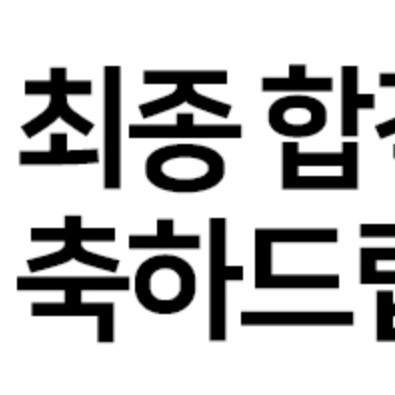
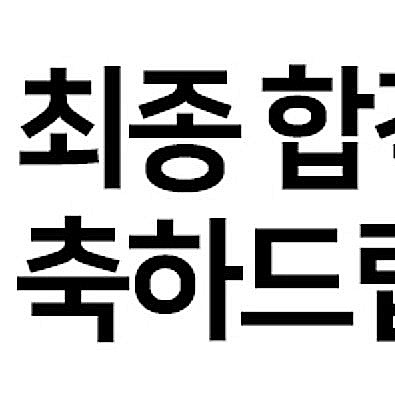
fix: 기존 모든 post의 thumbnail을 좀 더 고화질 사진으로 변경한다

diff --git a/content/posts/setup-gpu-env-in-k8s/index.md b/content/posts/setup-gpu-env-in-k8s/index.md
@@ -5,7 +5,7 @@ date: 2022-10-09
 tags:
   - Kubernetes
   - GPU
-thumbnail: ./thumbnail.png
+thumbnail: ./thumbnail.jpeg
 ---
 
 ## 들어가며
